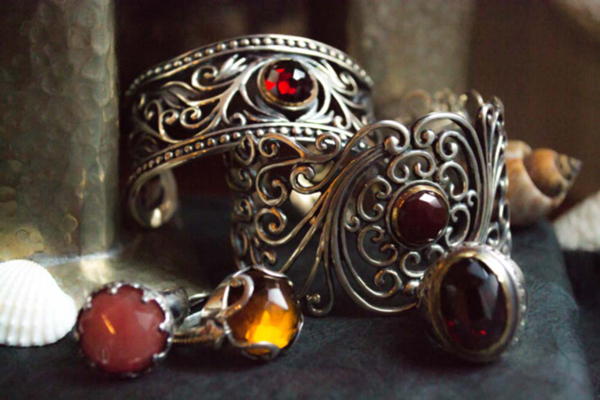
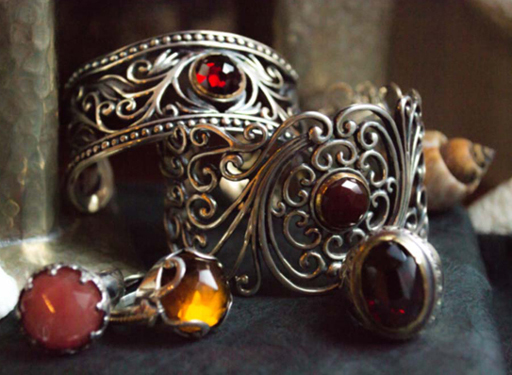
Added photos to slideshow
Adjusted size of images

diff --git a/index.html b/index.html
@@ -34,7 +34,7 @@
 				<img src="images/slideshow/23.jpg" alt="Golden Goose and eggs">
 				<img src="images/slideshow/05.jpg" alt="Book cover redesign sample">
 				<img src="images/slideshow/31.jpg" alt="Annual review cover page">
-				<img src="images/slideshow/26.jpg" alt="Various floral doodles">
+				<img src="images/slideshow/26.5.jpg" alt="Various floral doodles">
 				<img src="images/slideshow/22.jpg" alt="Digitally rendered mandala">
 				<img src="images/slideshow/41.jpg" alt="">
 				<img src="images/slideshow/18.jpg" alt="Leather logo mockup">
@@ -45,6 +45,13 @@
 				<img src="images/slideshow/14.jpg" alt="Logo design">
 				<img src="images/slideshow/13.jpg" alt="Cellphone app mockup image">
 				<img src="images/slideshow/07.jpg" alt="Photo of contemporary art">
+				<img src="images/slideshow/29.jpg" alt=" 'Fantastic Mr.Fox' movie quote">
+				<img src="images/slideshow/28.jpg" alt="Hand drawn typefaces">
+				<img src="images/slideshow/27.jpg" alt="Digital Typeface">
+				<img src="images/slideshow/26.jpg" alt="Various doodles">
+				<img src="images/slideshow/20.jpg" alt="Digital Illustrations of Constellations">
+				<img src="images/slideshow/09.jpg" alt="Photo of coral">
+				<img src="images/slideshow/08.jpg" alt="Macro photo of a peanut">
 			</div>
 		</div>
 	</header>
